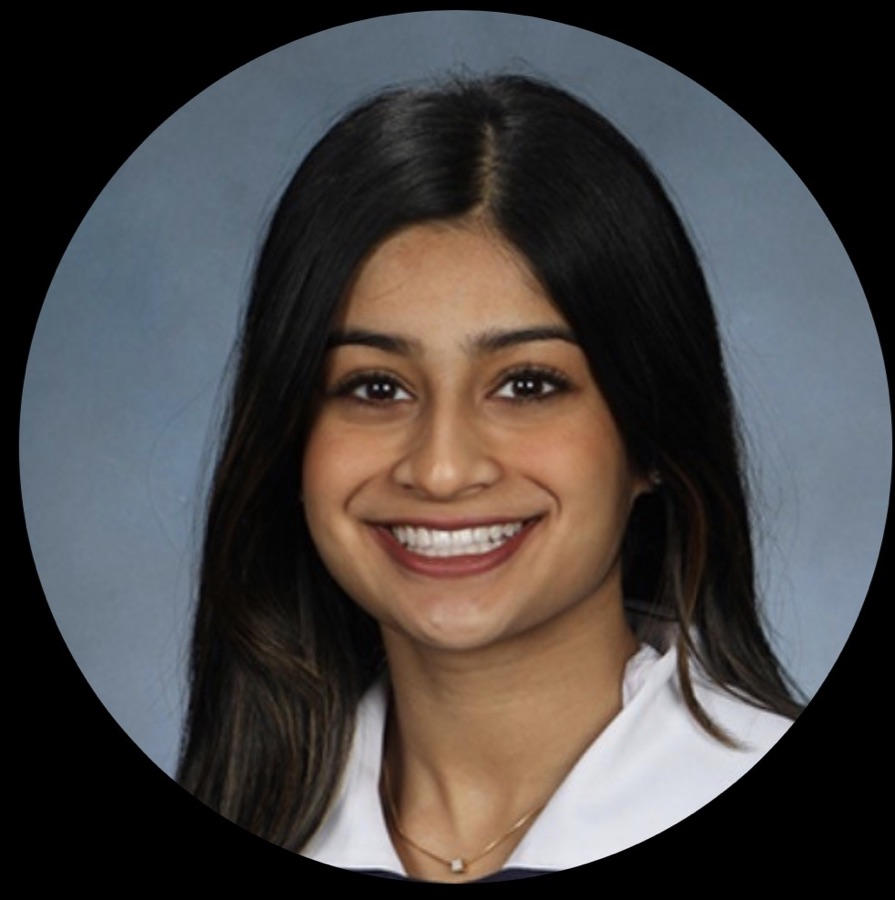
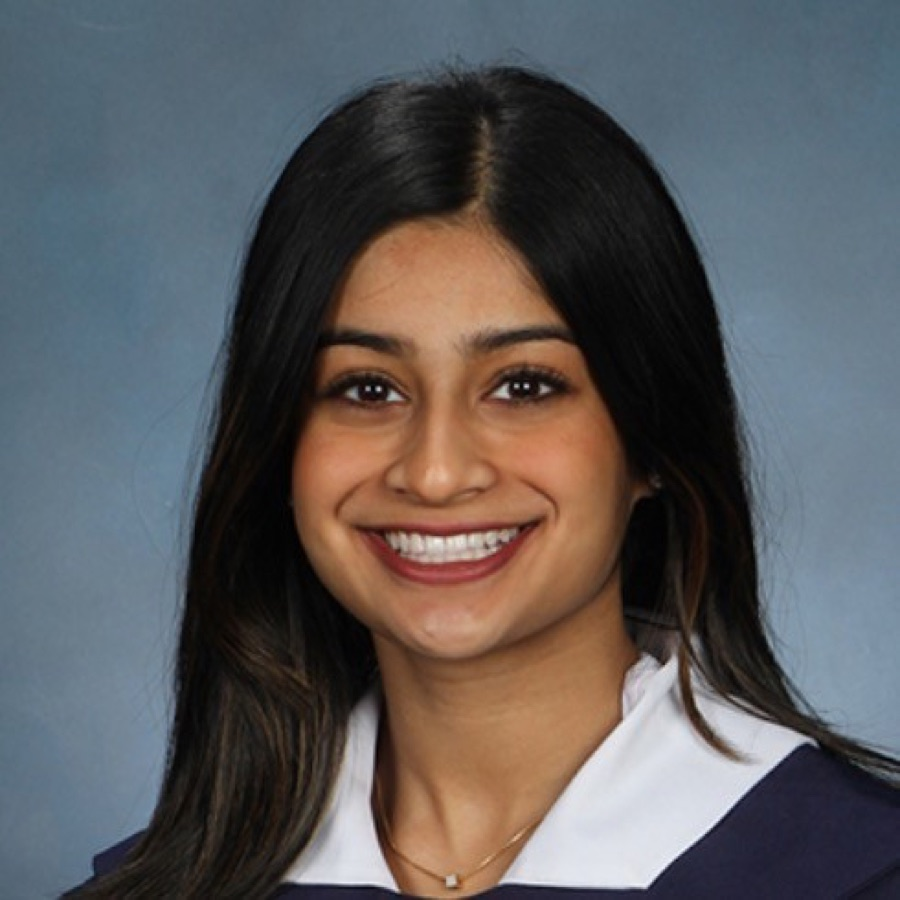
feat: applications - full-screen review (headshot + stats left, resume right); fix Ankitha photo
- Full-screen modal: taller headshot, class/major, one-liner, and stats on the
  left; resume iframe (or "pending" placeholder) on the right. Esc closes,
  arrows navigate; president keeps Pass/Keep controls.
- Restore public/members/ankitha-jagadeesh.jpg (a stray .jpeg would 404 on
  Vercel against the .jpg reference in members.ts).

diff --git a/src/app/portal/applications/page.tsx b/src/app/portal/applications/page.tsx
@@ -1,10 +1,10 @@
 "use client";
 
-import { useMemo, useState } from "react";
+import { useEffect, useMemo, useState } from "react";
 import { motion, useMotionValue, useTransform } from "framer-motion";
 import {
   Search, ShieldAlert, GraduationCap, FileText, Mail, Phone,
-  X, Check, ChevronLeft, ChevronRight, Lock,
+  X, Check, ChevronLeft, ChevronRight, Lock, Maximize2, ExternalLink,
 } from "lucide-react";
 import PortalShell from "@/components/portal/PortalShell";
 import { useAuth } from "@/context/AuthContext";
@@ -40,6 +40,7 @@ function ApplicationsBoard() {
   const [query, setQuery] = useState("");
   const [index, setIndex] = useState(0);
   const [decisions, setDecisions] = useState<Record<string, Decision>>({});
+  const [expanded, setExpanded] = useState(false);
 
   const deck = useMemo(() => {
     const q = query.trim().toLowerCase();
@@ -131,9 +132,17 @@ function ApplicationsBoard() {
               />
             </div>
 
-            <p className="mt-4 text-center text-xs text-muted">
-              {safeIndex + 1} of {deck.length}
-            </p>
+            <div className="mt-4 flex items-center justify-center gap-4">
+              <p className="text-xs text-muted">
+                {safeIndex + 1} of {deck.length}
+              </p>
+              <button
+                onClick={() => setExpanded(true)}
+                className="inline-flex items-center gap-1.5 rounded-full border border-line bg-white px-3 py-1 text-xs font-medium text-navy shadow-sm transition-colors hover:bg-slate-50"
+              >
+                <Maximize2 size={13} /> Full screen
+              </button>
+            </div>
 
             {/* Navigation + decisions in one roomy row - no cramped overlay arrows. */}
             <div className="mt-3 flex items-center justify-center gap-5">
@@ -215,6 +224,204 @@ function ApplicationsBoard() {
           </div>
         </div>
       )}
+
+      {expanded && current && (
+        <FullScreenReview
+          app={current}
+          index={safeIndex}
+          total={deck.length}
+          decision={decisions[current.id]}
+          canSwipe={canSwipe}
+          onDecide={decide}
+          onNav={go}
+          onClose={() => setExpanded(false)}
+        />
+      )}
+    </div>
+  );
+}
+
+function FullScreenReview({
+  app,
+  index,
+  total,
+  decision,
+  canSwipe,
+  onDecide,
+  onNav,
+  onClose,
+}: {
+  app: RushApplication;
+  index: number;
+  total: number;
+  decision?: Decision;
+  canSwipe: boolean;
+  onDecide: (dir: Decision) => void;
+  onNav: (delta: number) => void;
+  onClose: () => void;
+}) {
+  useEffect(() => {
+    function onKey(e: KeyboardEvent) {
+      if (e.key === "Escape") onClose();
+      else if (e.key === "ArrowLeft") onNav(-1);
+      else if (e.key === "ArrowRight") onNav(1);
+    }
+    window.addEventListener("keydown", onKey);
+    return () => window.removeEventListener("keydown", onKey);
+  }, [onClose, onNav]);
+
+  return (
+    <div
+      className="fixed inset-0 z-50 flex bg-navy/50 p-3 backdrop-blur-sm sm:p-6"
+      role="dialog"
+      aria-modal="true"
+      aria-label={`Application review for ${app.fullName}`}
+    >
+      <div className="mx-auto flex h-full w-full max-w-6xl flex-col overflow-hidden rounded-2xl border border-line bg-slate-50 shadow-2xl">
+        {/* Top bar */}
+        <div className="flex items-center justify-between gap-3 border-b border-line bg-white px-4 py-3 sm:px-6">
+          <div className="min-w-0">
+            <h2 className="truncate text-lg font-bold text-ink">{app.fullName}</h2>
+            <p className="text-xs text-muted">{index + 1} of {total}</p>
+          </div>
+          <div className="flex items-center gap-2">
+            <button
+              onClick={() => onNav(-1)}
+              disabled={index === 0}
+              className="grid h-9 w-9 place-items-center rounded-full border border-line bg-white text-muted transition-colors hover:text-navy disabled:opacity-40"
+              aria-label="Previous applicant"
+            >
+              <ChevronLeft size={18} />
+            </button>
+            <button
+              onClick={() => onNav(1)}
+              disabled={index >= total - 1}
+              className="grid h-9 w-9 place-items-center rounded-full border border-line bg-white text-muted transition-colors hover:text-navy disabled:opacity-40"
+              aria-label="Next applicant"
+            >
+              <ChevronRight size={18} />
+            </button>
+            <button
+              onClick={onClose}
+              className="ml-1 inline-flex items-center gap-1.5 rounded-full border border-line bg-white px-3 py-1.5 text-sm font-medium text-navy transition-colors hover:bg-slate-50"
+              aria-label="Close full screen"
+            >
+              <X size={16} /> Close
+            </button>
+          </div>
+        </div>
+
+        {/* Body: headshot + stats on the left, resume on the right */}
+        <div className="grid min-h-0 flex-1 lg:grid-cols-[minmax(0,24rem)_1fr]">
+          {/* Left column */}
+          <div className="overflow-y-auto border-b border-line p-5 lg:border-b-0 lg:border-r">
+            <div className="relative aspect-[4/5] w-full overflow-hidden rounded-xl bg-[radial-gradient(120%_120%_at_30%_0%,#2d3e5f_0%,#1a2744_60%,#131d33_100%)]">
+              {app.headshot ? (
+                // eslint-disable-next-line @next/next/no-img-element
+                <img src={app.headshot} alt={app.fullName} className="h-full w-full object-cover" />
+              ) : (
+                <div className="grid h-full w-full place-items-center">
+                  <span className="grid h-28 w-28 place-items-center rounded-full border border-gold/40 bg-gold/10 font-display text-4xl text-gold">
+                    {getInitials(app.fullName)}
+                  </span>
+                </div>
+              )}
+              {decision && (
+                <span
+                  className={`absolute left-3 top-3 rounded-full px-2.5 py-1 text-[11px] font-bold uppercase tracking-wide ${
+                    decision === "keep" ? "bg-green-600 text-white" : "bg-scarlet text-white"
+                  }`}
+                >
+                  {decision === "keep" ? "Kept" : "Passed"}
+                </span>
+              )}
+            </div>
+
+            <p className="mt-4 inline-flex items-center gap-1.5 text-sm font-medium text-[#9a7228]">
+              <GraduationCap size={15} /> Class of &rsquo;{String(app.gradYear).slice(2)} · {app.major}
+            </p>
+
+            {app.pitch && (
+              <p className="mt-3 text-sm italic leading-relaxed text-ink/80">&ldquo;{app.pitch}&rdquo;</p>
+            )}
+
+            <dl className="mt-4 grid grid-cols-3 gap-2 text-center">
+              {[
+                ["GPA", app.gpa],
+                ["Class", `'${String(app.gradYear).slice(2)}`],
+                ["Source", app.referralSource],
+              ].map(([label, value]) => (
+                <div key={label} className="rounded-lg bg-white py-2 shadow-sm">
+                  <dt className="text-[10px] uppercase tracking-wide text-muted">{label}</dt>
+                  <dd className="mt-0.5 truncate px-1 text-sm font-semibold text-ink">{value}</dd>
+                </div>
+              ))}
+            </dl>
+
+            <div className="mt-4 space-y-2 text-xs text-muted">
+              <a href={`mailto:${app.email}`} className="flex items-center gap-1.5 hover:text-navy">
+                <Mail size={13} /> {app.email}
+              </a>
+              {app.phone && (
+                <span className="flex items-center gap-1.5"><Phone size={13} /> {app.phone}</span>
+              )}
+            </div>
+
+            {canSwipe && (
+              <div className="mt-5 flex items-center gap-3">
+                <button
+                  onClick={() => onDecide("pass")}
+                  className="inline-flex flex-1 items-center justify-center gap-2 rounded-full border-2 border-scarlet/30 bg-white px-4 py-2.5 text-sm font-semibold text-scarlet transition-colors hover:bg-scarlet hover:text-white"
+                >
+                  <X size={18} /> Pass
+                </button>
+                <button
+                  onClick={() => onDecide("keep")}
+                  className="inline-flex flex-1 items-center justify-center gap-2 rounded-full border-2 border-green-500/30 bg-white px-4 py-2.5 text-sm font-semibold text-green-600 transition-colors hover:bg-green-600 hover:text-white"
+                >
+                  <Check size={18} /> Keep
+                </button>
+              </div>
+            )}
+          </div>
+
+          {/* Right column: resume */}
+          <div className="flex min-h-0 flex-col bg-slate-100">
+            <div className="flex items-center justify-between gap-2 border-b border-line bg-white px-4 py-2.5">
+              <span className="inline-flex items-center gap-1.5 text-xs font-semibold uppercase tracking-widest text-muted">
+                <FileText size={14} /> Résumé
+              </span>
+              {app.resumeUrl && (
+                <a
+                  href={app.resumeUrl}
+                  target="_blank"
+                  rel="noreferrer"
+                  className="inline-flex items-center gap-1.5 text-xs font-medium text-navy hover:underline"
+                >
+                  Open <ExternalLink size={12} />
+                </a>
+              )}
+            </div>
+            {app.resumeUrl ? (
+              <iframe
+                src={app.resumeUrl}
+                title={`${app.fullName} résumé`}
+                className="min-h-0 flex-1 border-0 bg-white"
+              />
+            ) : (
+              <div className="grid flex-1 place-items-center p-8 text-center">
+                <div>
+                  <FileText className="mx-auto text-muted/50" size={40} />
+                  <p className="mt-3 text-sm font-medium text-muted">Résumé pending</p>
+                  <p className="mt-1 text-xs text-muted/80">
+                    This applicant has not attached a résumé yet.
+                  </p>
+                </div>
+              </div>
+            )}
+          </div>
+        </div>
+      </div>
     </div>
   );
 }
